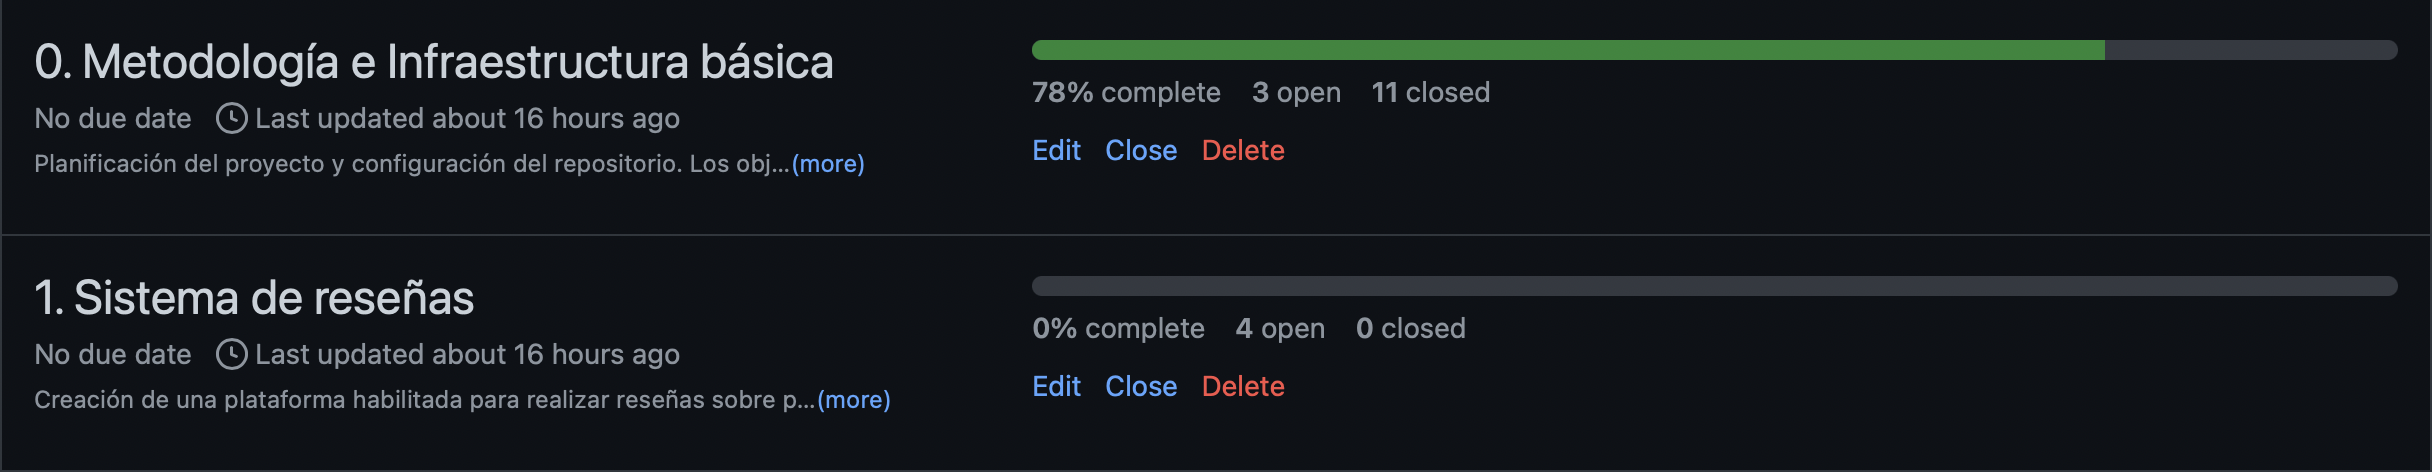
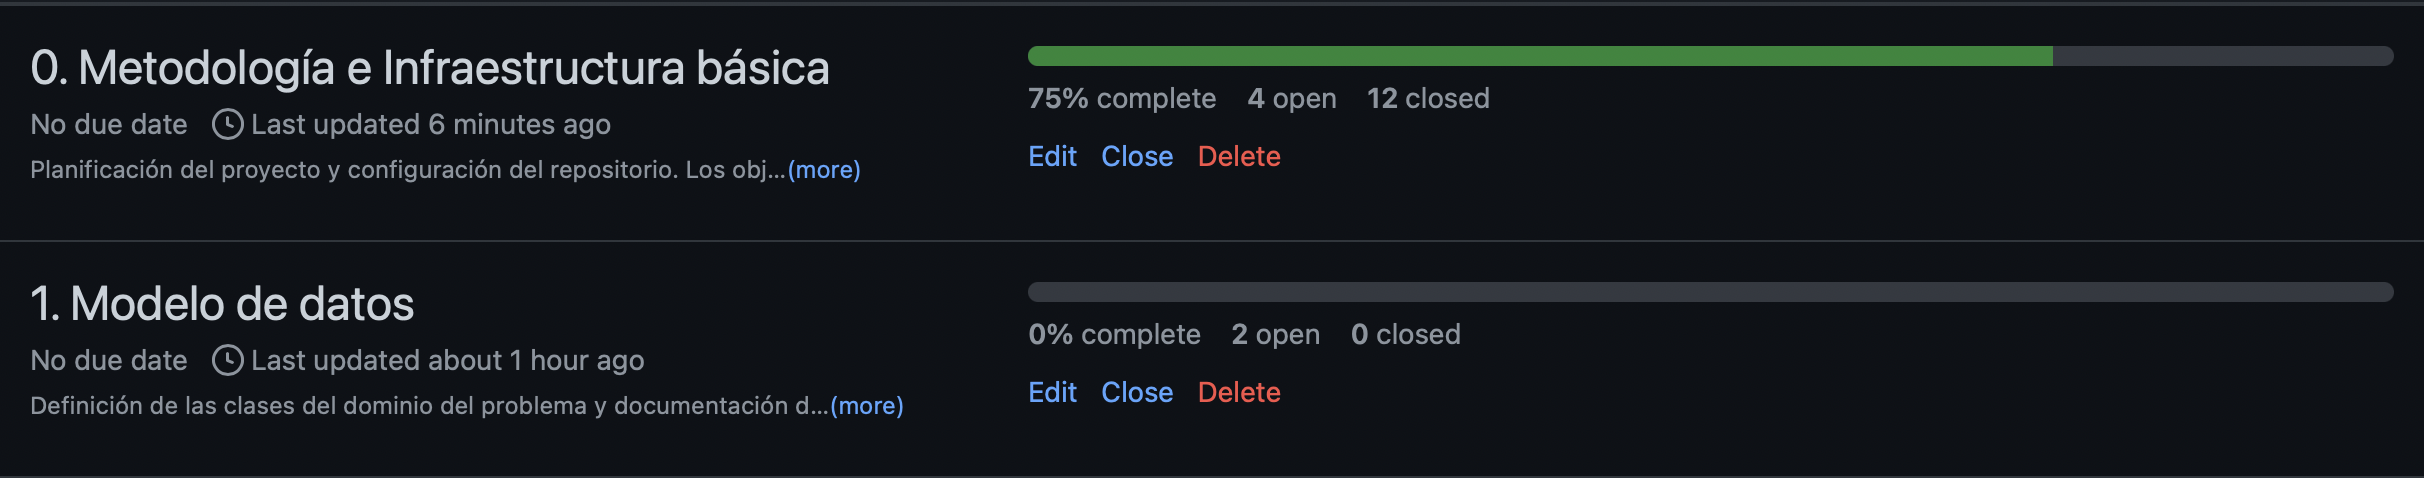
Refactors milestones docs (#47)
* changes milestone description, closes #45

* changes milestones image, updates #13

* fix lint

diff --git a/doc/secciones/03_metodologia.tex b/doc/secciones/03_metodologia.tex
@@ -45,7 +45,11 @@ De esta forma, los \textit{stakeholders}, o personas interesadas en el desarroll
 momento en qué fase del desarrollo se encuentra el mismo, y en qué estado está cada una de sus funcionalidades.\\
 
 \subsection{Milestones}
-Las milestones son los productos mínimamente viables del proyecto. Están formadas por documentos para organización del
+Las milestones son los productos mínimamente viables del proyecto. Son incrementales, es decir, un \textit{milestone}
+incluye todo lo que tenía el anterior y se necesita terminar uno para pasar al siguiente. También sirven como
+\textit{checkpoints} para comprobar que el desarrollo va por buen camino.
+
+Están formadas por documentos para organización del
 trabajo que completan el PMV.\\
 
 Éstos documentos son:
